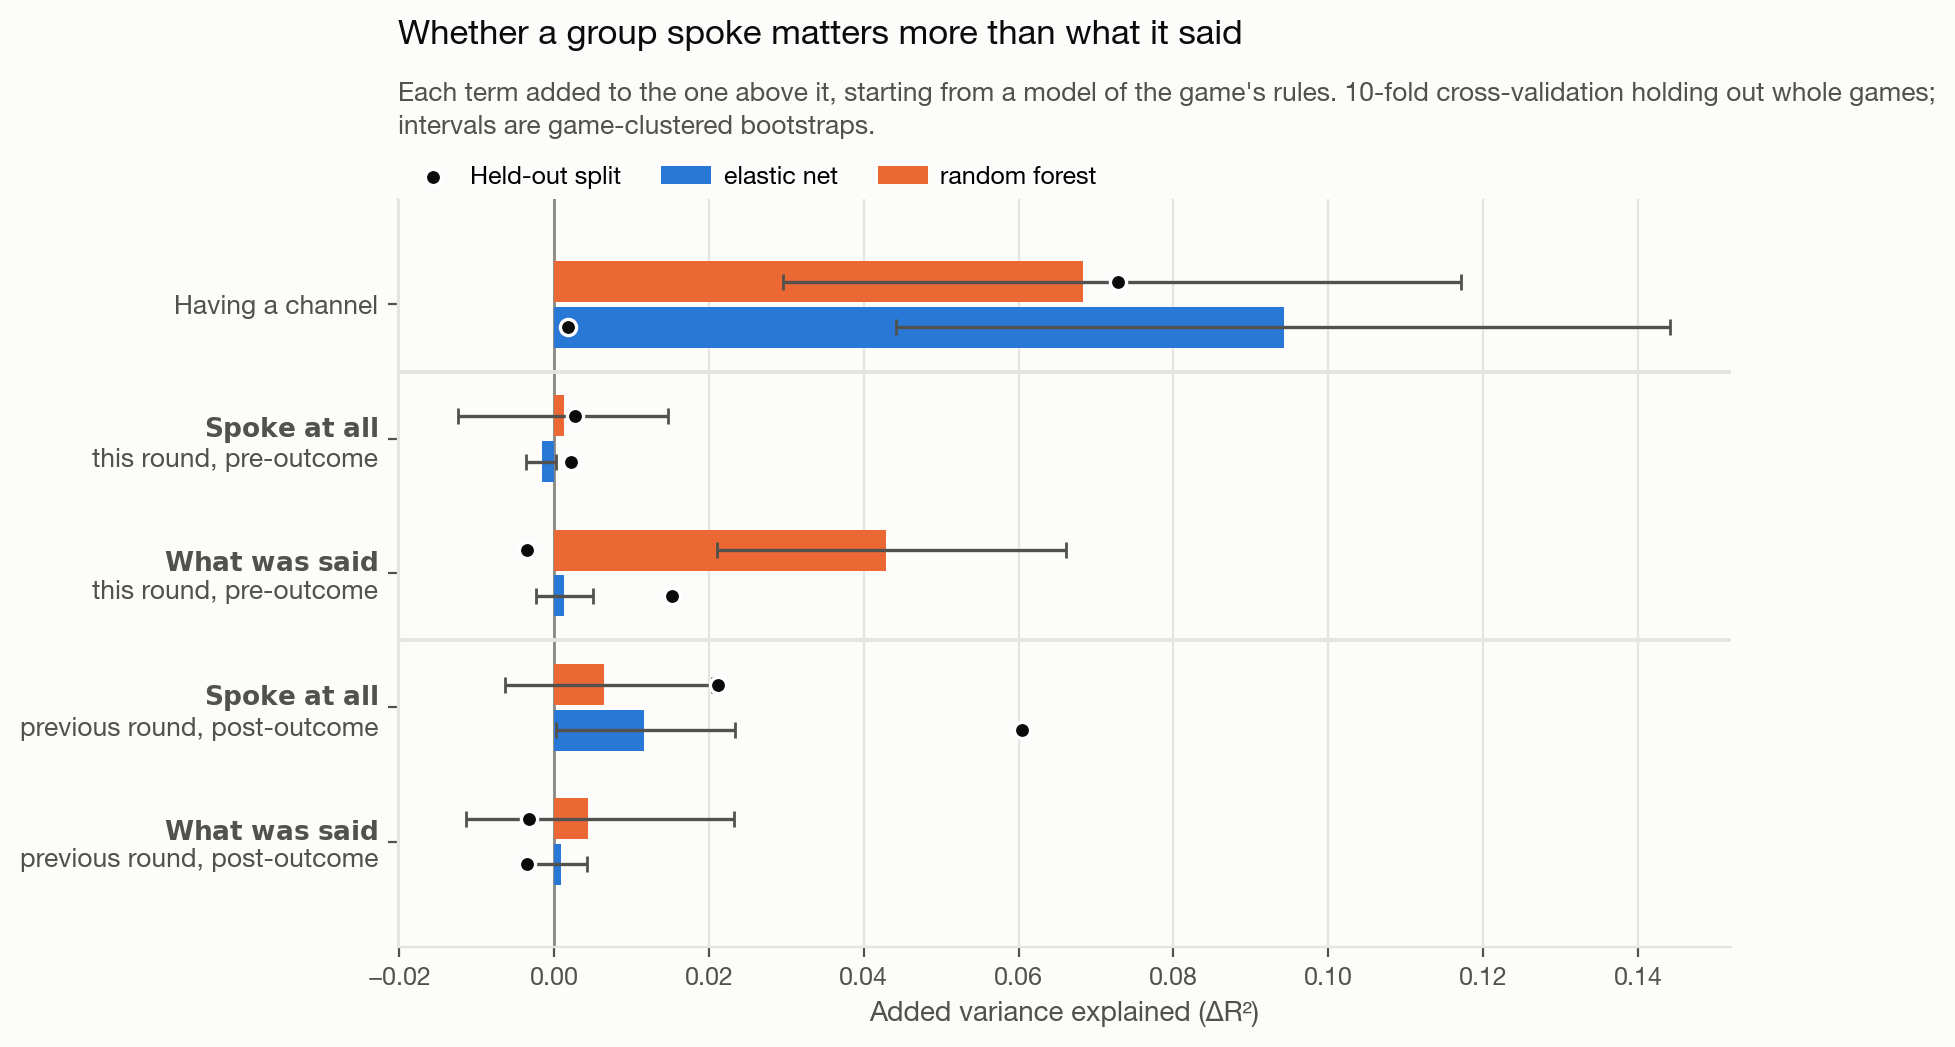
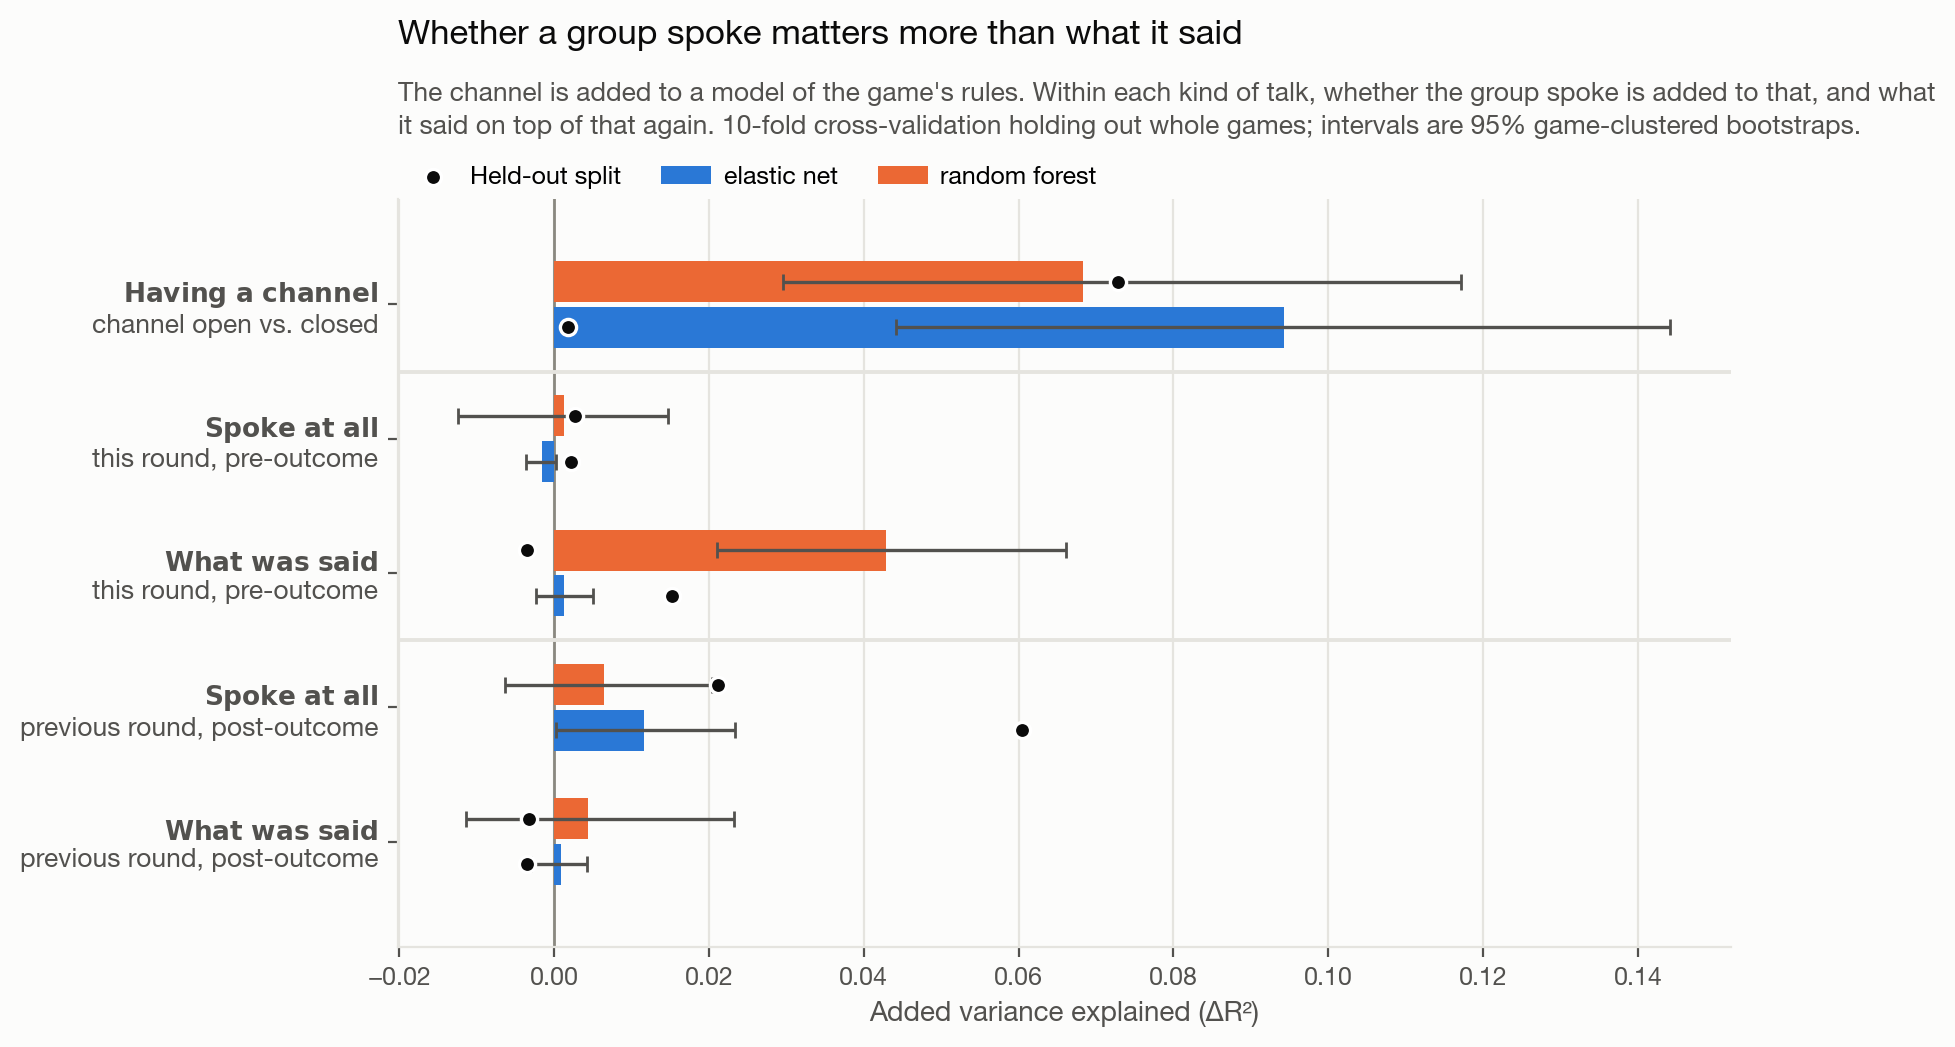
Document the conversation unit, the aggregation routes, and the model nesting
The unit of analysis needed stating explicitly: a conversation here is one
game-round AND one block, so a 30-round game contributes close to sixty
conversations rather than one, and the median conversation is three messages
long. Adds a table of which messages land in which conversation and what each
predicts.

Also documents the three routes features take to the conversation level -
native, utterance to conversation, and utterance to speaker to conversation -
since the last of those produces the awkward two-stage column names and answers
a different question than the one-stage form.

Spells out the nested model structure, including that the two talk blocks branch
from the same model rather than chaining, so neither is advantaged by entry
order, and that content is always measured after the speech indicators.

Figure 2: bolds the channel label to match the other rows, and corrects a
subtitle that described the nesting as a single chain when the talk blocks
actually branch. States that intervals are 95%.

Changed region(s): [[0.2184, 0.0611, 0.9985, 0.1528], [0.0624, 0.2751, 0.1872, 0.3362]]

diff --git a/scripts/05_figures.py b/scripts/05_figures.py
@@ -128,7 +128,8 @@ def fig_decomposition():
     def bold_first(head, tail):
         return rf"$\bf{{{head.replace(' ', chr(92) + ' ')}}}$" + f"\n{tail}"
 
-    rows = [("Having a channel", decomp[decomp.step == "channel"])]
+    rows = [(bold_first("Having a channel", "channel open vs. closed"),
+             decomp[decomp.step == "channel"])]
     for block in ("pre", "post"):
         for component, name in [("spoke at all", "Spoke at all"),
                                 ("what was said", "What was said")]:
@@ -166,9 +167,11 @@ def fig_decomposition():
     ax.grid(axis="y", visible=False)
     ax.margins(y=0.10)
     header(fig, ax, "Whether a group spoke matters more than what it said",
-           "Each term added to the one above it, starting from a model of the game's "
-           "rules. 10-fold cross-validation holding out whole games; intervals are "
-           "game-clustered bootstraps.", legend_from=ax, ncol=3)
+           "The channel is added to a model of the game's rules. Within each kind of "
+           "talk, whether the group spoke is added to that, and what it said on top "
+           "of that again. 10-fold cross-validation holding out whole games; "
+           "intervals are 95% game-clustered bootstraps.",
+           legend_from=ax, ncol=3)
     fig.savefig(FIGURES / "fig2_decomposition.png")
     plt.close(fig)
 

diff --git a/README.md b/README.md
@@ -83,6 +83,85 @@ that separates the channel from the content.
 * **Validation:** feature selection, scaling, model form and hyperparameters are all
   decided on the learning split. The held-out split is scored once.
 
+## What counts as a conversation, and how features are aggregated
+
+The toolkit computes each feature **at the utterance level** — one value per
+message — and then aggregates upward. What "upward" means depends on what you tell
+it a conversation is, so that choice does most of the work.
+
+**Here, one conversation is one game-round *and* one block.** A conversation id is
+`{gameId}_r{round}_{pre|post}`, so a single game contributes many conversations
+rather than one:
+
+| | Learning split |
+|---|---|
+| Games that talked | 148 |
+| Conversations | 2,649 |
+| Conversations per game | median 14, max 56 |
+| Messages per conversation | median 3 |
+
+A 30-round game yields close to sixty conversations, not thirty: up to one
+before-outcome conversation per round, plus one after-outcome conversation per round
+that has a successor. This is why the conversations are short — a median of three
+messages — and why conversation-level features like discursive diversity are noisier
+here than they would be over a whole game.
+
+Which messages land in which conversation:
+
+| Block | Messages | Predicts |
+|---|---|---|
+| `{game}_r{t}_pre` | round *t*'s contribution-phase chat | round *t*'s contribution |
+| `{game}_r{t}_post` | round *t*'s outcome- and summary-phase chat | round *t+1*'s contribution |
+
+So round *t*'s messages are split across two different conversations depending on
+whether they were sent before or after that round's result appeared, and those two
+conversations are featurized independently and predict different rounds. Nothing is
+double-counted, and nothing is discarded except messages with no round to predict:
+round 0's pre-outcome chat (there is no round before it to supply a POST block, and
+the analysis needs both) and the final round's post-outcome chat.
+
+The 248 surviving columns reach the conversation level three different ways:
+
+| Route | Columns | Example |
+|---|---|---|
+| **Native conversation-level** | 16 | `turn_taking_index`, `team_burstiness`, `discursive_diversity` — computed from the conversation as a whole, never aggregated from parts |
+| **Utterance → conversation** | 91 | `max_forward_flow` — the largest value across the messages in the conversation |
+| **Utterance → speaker → conversation** | 137 | `mean_user_max_positivity_zscore_chats` — each speaker's maximum across their own messages, then averaged across speakers |
+
+The two-stage columns are the ones with awkward names, and the extra stage matters:
+`mean_user_max_X` and `max_X` answer different questions — "how high does a typical
+participant get" versus "how high does anyone get" — and a three-person conversation
+can move them in opposite directions. Figures spell the route out in brackets after
+the feature name, so `certainty (LIWC) [max of speaker min]` reads as the
+conversation maximum, across speakers, of each speaker's minimum.
+
+## How the nested models are built
+
+Each ΔR² in the decomposition is the gain from adding one block of columns to a
+model that already contains everything above it *in its own group*:
+
+```
+M0   game rules + round timing
+M1   M0 + chat channel indicator                    -> ΔR² for the channel
+
+     within the before-outcome block:
+M2a  M1 + did this group speak this round           -> ΔR² for speaking
+M3a  M2a + 168 features describing what was said    -> ΔR² for content
+
+     within the after-outcome block:
+M2b  M1 + did this group speak last round           -> ΔR² for speaking
+M3b  M2b + 168 features describing what was said    -> ΔR² for content
+```
+
+The two talk blocks branch from the same point (M1) rather than chaining into each
+other, so neither gets an advantage from being entered first. Content is always
+measured *after* the speech indicators, which is what makes "what was said" mean
+what it says: any gain it shows is over and above knowing whether the group spoke.
+
+Every R² is out-of-fold, from 10-fold cross-validation with whole games held out, and
+every interval is a 95% percentile bootstrap resampling games rather than rows.
+Model hyperparameters are retuned inside each training fold.
+
 ## Feature extraction
 
 The toolkit's own redundancy reduction does the feature selection, new in v0.1.8:
